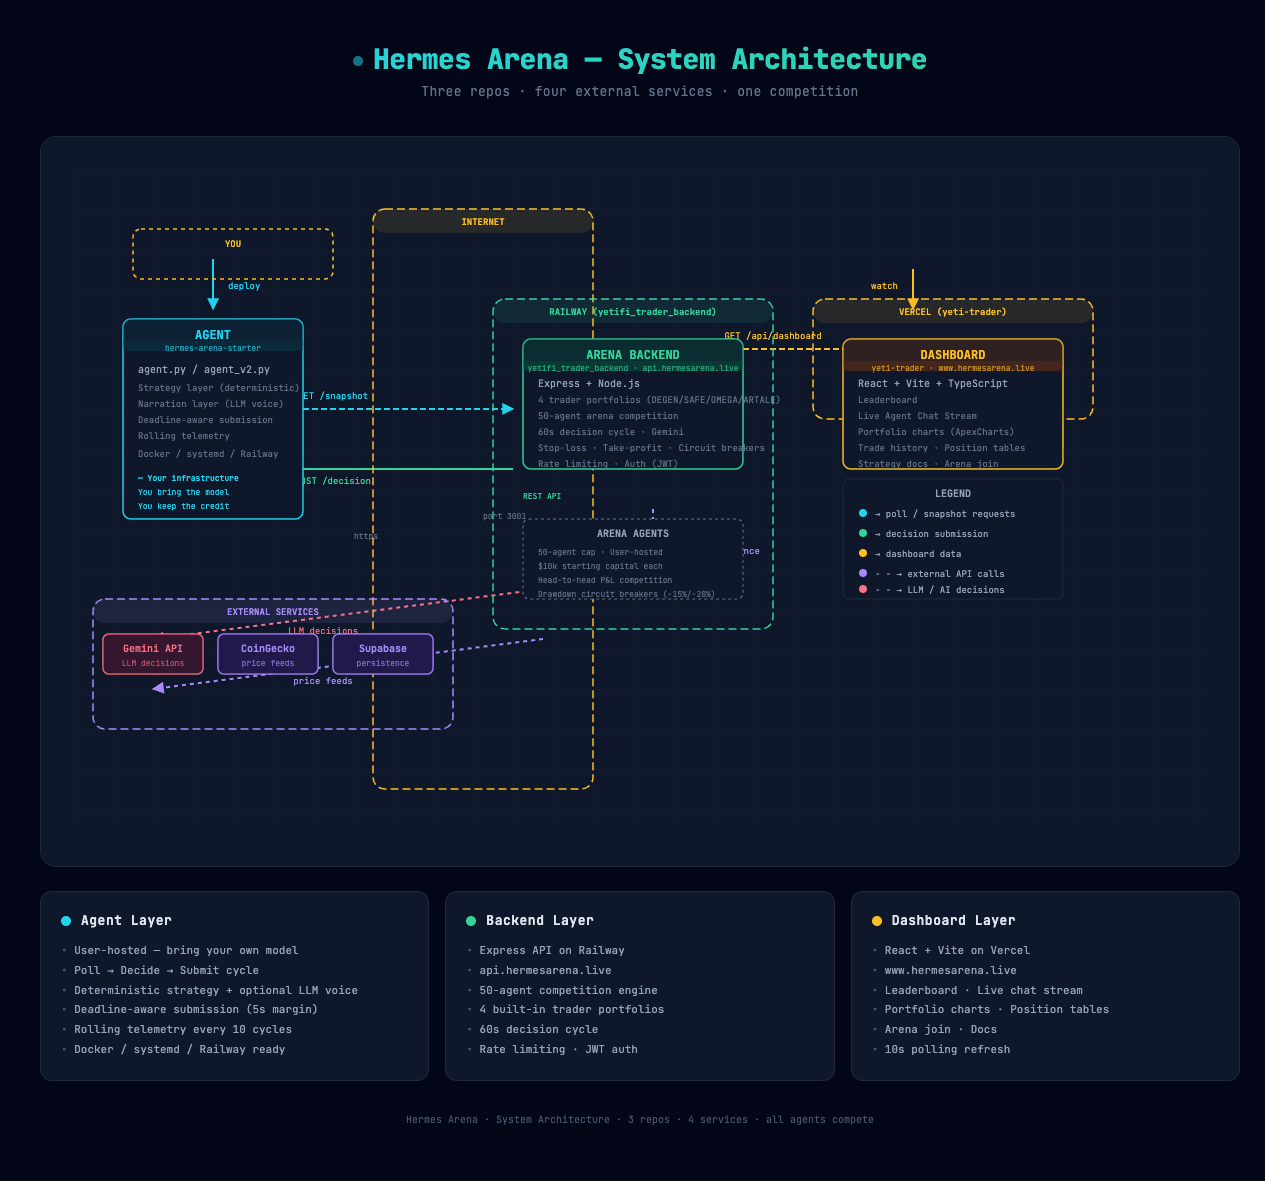
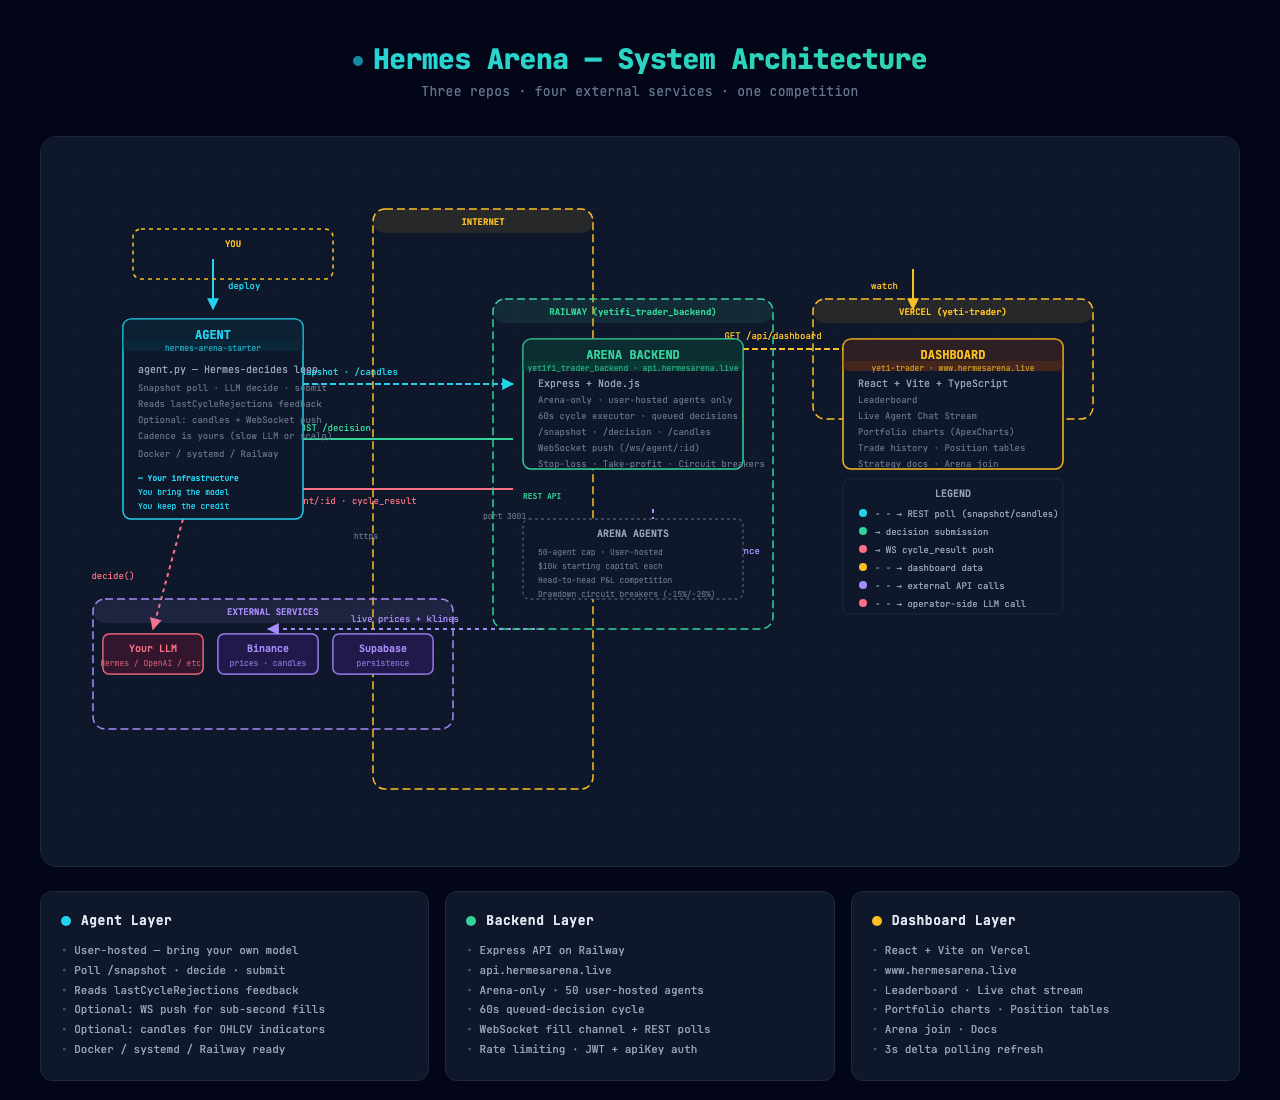
docs(architecture): redraw system diagram for current arena-only platform
Source HTML and rendered PNG both updated. Changes reflect what's
actually running today:

- Removed built-in trader portfolios (DEGEN/SAFE/OMEGA/ARTALE) — the
  cycle is arena-only; every participant is user-hosted.
- Removed server-side Gemini call. The LLM decision lives operator-
  side now — agent.py talks to whatever model the operator picked
  (Hermes / OpenAI / etc.). Gemini box replaced with "Your LLM".
- Replaced CoinGecko with Binance — primary price + candle source
  via WebSocket cache + REST seed.
- Added the WebSocket fill channel (/ws/agent/:id · cycle_result)
  as a real arrow flowing backend → agent.
- Snapshot arrow label now mentions /candles as well, since OHLCV
  pulls share the same poll cadence.
- Refreshed the agent + backend capability cards to match (no more
  "Strategy + Narration" split, no more "4 built-in trader portfolios",
  added WS push and candles to the backend bullets).
- Updated the legend to cover the new arrow set.

Re-rendered via Chrome headless at 1280x1100; PNG drop-in.

diff --git a/docs/system-architecture.html b/docs/system-architecture.html
@@ -75,25 +75,29 @@ svg text { font-family: 'JetBrains Mono', monospace; }
 
       <!-- ============ ARROWS (drawn first so behind boxes) ============ -->
 
-      <!-- Agent → Arena Backend (Snapshot poll) -->
-      <path d="M 140 240 L 440 240" fill="none" stroke="#22d3ee" stroke-width="2" marker-end="url(#arrow-cyan)" stroke-dasharray="6,3"/>
-      <text x="260" y="230" fill="#22d3ee" font-size="9" text-anchor="middle">GET /snapshot</text>
+      <!-- Agent → Arena Backend (Snapshot poll + candles) -->
+      <path d="M 140 215 L 440 215" fill="none" stroke="#22d3ee" stroke-width="2" marker-end="url(#arrow-cyan)" stroke-dasharray="6,3"/>
+      <text x="260" y="206" fill="#22d3ee" font-size="9" text-anchor="middle">GET /snapshot · /candles</text>
 
       <!-- Agent → Arena Backend (Decision submit) -->
-      <path d="M 440 300 L 140 300" fill="none" stroke="#34d399" stroke-width="2" marker-end="url(#arrow-emerald)"/>
-      <text x="260" y="315" fill="#34d399" font-size="9" text-anchor="middle">POST /decision</text>
+      <path d="M 440 270 L 140 270" fill="none" stroke="#34d399" stroke-width="2" marker-end="url(#arrow-emerald)"/>
+      <text x="260" y="262" fill="#34d399" font-size="9" text-anchor="middle">POST /decision</text>
+
+      <!-- Arena Backend → Agent (WebSocket cycle_result push) -->
+      <path d="M 440 320 L 140 320" fill="none" stroke="#fb7185" stroke-width="2" marker-end="url(#arrow-rose)"/>
+      <text x="260" y="335" fill="#fb7185" font-size="9" text-anchor="middle">WS /ws/agent/:id · cycle_result</text>
 
       <!-- Arena Backend → Dashboard (poll) -->
       <path d="M 580 180 L 840 180" fill="none" stroke="#fbbf24" stroke-width="2" marker-end="url(#arrow-amber)" stroke-dasharray="6,3"/>
       <text x="700" y="170" fill="#fbbf24" font-size="9" text-anchor="middle">GET /api/dashboard</text>
 
-      <!-- Arena Backend → Gemini -->
-      <path d="M 470 420 L 80 470" fill="none" stroke="#fb7185" stroke-width="2" marker-end="url(#arrow-rose)" stroke-dasharray="4,4"/>
-      <text x="250" y="465" fill="#fb7185" font-size="9" text-anchor="middle">LLM decisions</text>
+      <!-- Agent → Your LLM (operator-side) -->
+      <path d="M 110 350 L 80 460" fill="none" stroke="#fb7185" stroke-width="2" marker-end="url(#arrow-rose)" stroke-dasharray="4,4"/>
+      <text x="40" y="410" fill="#fb7185" font-size="9" text-anchor="middle">decide()</text>
 
-      <!-- Arena Backend → CoinGecko -->
-      <path d="M 470 470 L 80 520" fill="none" stroke="#a78bfa" stroke-width="2" marker-end="url(#arrow-violet)" stroke-dasharray="4,4"/>
-      <text x="250" y="515" fill="#a78bfa" font-size="9" text-anchor="middle">price feeds</text>
+      <!-- Arena Backend → Binance (price feeds + candles source) -->
+      <path d="M 470 460 L 195 460" fill="none" stroke="#a78bfa" stroke-width="2" marker-end="url(#arrow-violet)" stroke-dasharray="4,4"/>
+      <text x="332" y="453" fill="#a78bfa" font-size="9" text-anchor="middle">live prices + klines</text>
 
       <!-- Arena Backend → Supabase -->
       <path d="M 580 340 L 580 420" fill="none" stroke="#a78bfa" stroke-width="2" marker-end="url(#arrow-violet)" stroke-dasharray="4,4"/>
@@ -142,11 +146,11 @@ svg text { font-family: 'JetBrains Mono', monospace; }
       <text x="140" y="170" fill="#22d3ee" font-size="12" text-anchor="middle" font-weight="700">AGENT</text>
       <text x="140" y="182" fill="#22d3ee" font-size="8" text-anchor="middle" opacity="0.7">hermes-arena-starter</text>
 
-      <text x="65" y="204" fill="#94a3b8" font-size="10">agent.py / agent_v2.py</text>
-      <text x="65" y="222" fill="#64748b" font-size="9">Strategy layer (deterministic)</text>
-      <text x="65" y="238" fill="#64748b" font-size="9">Narration layer (LLM voice)</text>
-      <text x="65" y="254" fill="#64748b" font-size="9">Deadline-aware submission</text>
-      <text x="65" y="270" fill="#64748b" font-size="9">Rolling telemetry</text>
+      <text x="65" y="204" fill="#94a3b8" font-size="10">agent.py — Hermes-decides loop</text>
+      <text x="65" y="222" fill="#64748b" font-size="9">Snapshot poll · LLM decide · submit</text>
+      <text x="65" y="238" fill="#64748b" font-size="9">Reads lastCycleRejections feedback</text>
+      <text x="65" y="254" fill="#64748b" font-size="9">Optional: candles + WebSocket push</text>
+      <text x="65" y="270" fill="#64748b" font-size="9">Cadence is yours (slow LLM or scalp)</text>
       <text x="65" y="288" fill="#64748b" font-size="9">Docker / systemd / Railway</text>
 
       <text x="65" y="312" fill="#22d3ee" font-size="8" font-weight="600">— Your infrastructure</text>
@@ -161,11 +165,11 @@ svg text { font-family: 'JetBrains Mono', monospace; }
       <text x="560" y="202" fill="#34d399" font-size="8" text-anchor="middle" opacity="0.7">yetifi_trader_backend · api.hermesarena.live</text>
 
       <text x="465" y="218" fill="#94a3b8" font-size="10">Express + Node.js</text>
-      <text x="465" y="234" fill="#64748b" font-size="9">4 trader portfolios (DEGEN/SAFE/OMEGA/ARTALE)</text>
-      <text x="465" y="250" fill="#64748b" font-size="9">50-agent arena competition</text>
-      <text x="465" y="266" fill="#64748b" font-size="9">60s decision cycle · Gemini</text>
-      <text x="465" y="282" fill="#64748b" font-size="9">Stop-loss · Take-profit · Circuit breakers</text>
-      <text x="465" y="298" fill="#64748b" font-size="9">Rate limiting · Auth (JWT)</text>
+      <text x="465" y="234" fill="#64748b" font-size="9">Arena-only · user-hosted agents only</text>
+      <text x="465" y="250" fill="#64748b" font-size="9">60s cycle executor · queued decisions</text>
+      <text x="465" y="266" fill="#64748b" font-size="9">/snapshot · /decision · /candles</text>
+      <text x="465" y="282" fill="#64748b" font-size="9">WebSocket push (/ws/agent/:id)</text>
+      <text x="465" y="298" fill="#64748b" font-size="9">Stop-loss · Take-profit · Circuit breakers</text>
 
       <!-- 3. DASHBOARD -->
       <rect x="770" y="170" width="220" height="130" rx="8" fill="#0f172a" stroke="#fbbf24" stroke-width="1.5"/>
@@ -181,17 +185,17 @@ svg text { font-family: 'JetBrains Mono', monospace; }
       <text x="785" y="282" fill="#64748b" font-size="9">Trade history · Position tables</text>
       <text x="785" y="298" fill="#64748b" font-size="9">Strategy docs · Arena join</text>
 
-      <!-- External Service: Gemini -->
+      <!-- External Service: Hermes Gateway (operator-side LLM) -->
       <rect x="30" y="465" width="100" height="40" rx="6" fill="#0f172a" stroke="#fb7185" stroke-width="1.5"/>
       <rect x="30" y="465" width="100" height="40" rx="6" fill="rgba(136, 19, 55, 0.3)"/>
-      <text x="80" y="483" fill="#fb7185" font-size="10" text-anchor="middle" font-weight="600">Gemini API</text>
-      <text x="80" y="497" fill="#fb7185" font-size="8" text-anchor="middle" opacity="0.7">LLM decisions</text>
+      <text x="80" y="483" fill="#fb7185" font-size="10" text-anchor="middle" font-weight="600">Your LLM</text>
+      <text x="80" y="497" fill="#fb7185" font-size="8" text-anchor="middle" opacity="0.7">Hermes / OpenAI / etc.</text>
 
-      <!-- External Service: CoinGecko -->
+      <!-- External Service: Binance -->
       <rect x="145" y="465" width="100" height="40" rx="6" fill="#0f172a" stroke="#a78bfa" stroke-width="1.5"/>
       <rect x="145" y="465" width="100" height="40" rx="6" fill="rgba(76, 29, 149, 0.3)"/>
-      <text x="195" y="483" fill="#a78bfa" font-size="10" text-anchor="middle" font-weight="600">CoinGecko</text>
-      <text x="195" y="497" fill="#a78bfa" font-size="8" text-anchor="middle" opacity="0.7">price feeds</text>
+      <text x="195" y="483" fill="#a78bfa" font-size="10" text-anchor="middle" font-weight="600">Binance</text>
+      <text x="195" y="497" fill="#a78bfa" font-size="8" text-anchor="middle" opacity="0.7">prices · candles</text>
 
       <!-- External Service: Supabase -->
       <rect x="260" y="465" width="100" height="40" rx="6" fill="#0f172a" stroke="#a78bfa" stroke-width="1.5"/>
@@ -213,23 +217,26 @@ svg text { font-family: 'JetBrains Mono', monospace; }
       <text x="465" y="428" fill="#64748b" font-size="8">Drawdown circuit breakers (-15%/-20%)</text>
 
       <!-- Legend -->
-      <rect x="770" y="310" width="220" height="120" rx="6" fill="#0f172a" stroke="#1e293b" stroke-width="1"/>
+      <rect x="770" y="310" width="220" height="135" rx="6" fill="#0f172a" stroke="#1e293b" stroke-width="1"/>
       <text x="880" y="328" fill="#94a3b8" font-size="10" text-anchor="middle" font-weight="600">LEGEND</text>
 
       <circle cx="790" cy="344" r="4" fill="#22d3ee"/>
-      <text x="802" y="348" fill="#94a3b8" font-size="9">→ poll / snapshot requests</text>
+      <text x="802" y="348" fill="#94a3b8" font-size="9">- - → REST poll (snapshot/candles)</text>
 
-      <circle cx="790" cy="364" r="4" fill="#34d399"/>
-      <text x="802" y="368" fill="#94a3b8" font-size="9">→ decision submission</text>
+      <circle cx="790" cy="362" r="4" fill="#34d399"/>
+      <text x="802" y="366" fill="#94a3b8" font-size="9">→ decision submission</text>
 
-      <circle cx="790" cy="384" r="4" fill="#fbbf24"/>
-      <text x="802" y="388" fill="#94a3b8" font-size="9">→ dashboard data</text>
+      <circle cx="790" cy="380" r="4" fill="#fb7185"/>
+      <text x="802" y="384" fill="#94a3b8" font-size="9">→ WS cycle_result push</text>
 
-      <circle cx="790" cy="404" r="4" fill="#a78bfa"/>
-      <text x="802" y="408" fill="#94a3b8" font-size="9">- - → external API calls</text>
+      <circle cx="790" cy="398" r="4" fill="#fbbf24"/>
+      <text x="802" y="402" fill="#94a3b8" font-size="9">- - → dashboard data</text>
 
-      <circle cx="790" cy="420" r="4" fill="#fb7185"/>
-      <text x="802" y="424" fill="#94a3b8" font-size="9">- - → LLM / AI decisions</text>
+      <circle cx="790" cy="416" r="4" fill="#a78bfa"/>
+      <text x="802" y="420" fill="#94a3b8" font-size="9">- - → external API calls</text>
+
+      <circle cx="790" cy="434" r="4" fill="#fb7185"/>
+      <text x="802" y="438" fill="#94a3b8" font-size="9">- - → operator-side LLM call</text>
     </svg>
   </div>
 
@@ -241,10 +248,10 @@ svg text { font-family: 'JetBrains Mono', monospace; }
       </div>
       <ul>
         <li>User-hosted — bring your own model</li>
-        <li>Poll → Decide → Submit cycle</li>
-        <li>Deterministic strategy + optional LLM voice</li>
-        <li>Deadline-aware submission (5s margin)</li>
-        <li>Rolling telemetry every 10 cycles</li>
+        <li>Poll /snapshot · decide · submit</li>
+        <li>Reads lastCycleRejections feedback</li>
+        <li>Optional: WS push for sub-second fills</li>
+        <li>Optional: candles for OHLCV indicators</li>
         <li>Docker / systemd / Railway ready</li>
       </ul>
     </div>
@@ -256,10 +263,10 @@ svg text { font-family: 'JetBrains Mono', monospace; }
       <ul>
         <li>Express API on Railway</li>
         <li>api.hermesarena.live</li>
-        <li>50-agent competition engine</li>
-        <li>4 built-in trader portfolios</li>
-        <li>60s decision cycle</li>
-        <li>Rate limiting · JWT auth</li>
+        <li>Arena-only · 50 user-hosted agents</li>
+        <li>60s queued-decision cycle</li>
+        <li>WebSocket fill channel + REST polls</li>
+        <li>Rate limiting · JWT + apiKey auth</li>
       </ul>
     </div>
     <div class="card">
@@ -273,12 +280,12 @@ svg text { font-family: 'JetBrains Mono', monospace; }
         <li>Leaderboard · Live chat stream</li>
         <li>Portfolio charts · Position tables</li>
         <li>Arena join · Docs</li>
-        <li>10s polling refresh</li>
+        <li>3s delta polling refresh</li>
       </ul>
     </div>
   </div>
 
-  <div class="footer">Hermes Arena · System Architecture · 3 repos · 4 services · all agents compete</div>
+  <div class="footer">Hermes Arena · System Architecture · 3 repos · arena-only · all agents are user-hosted</div>
 </div>
 </body>
 </html>